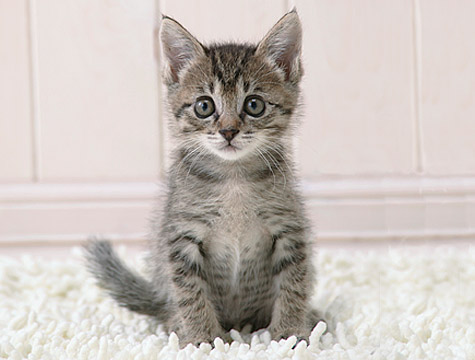
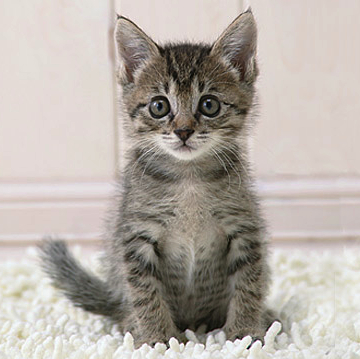
stuff

diff --git a/Classes/TransformViewController.m b/Classes/TransformViewController.m
@@ -16,9 +16,9 @@ CGPoint identity(CGPoint p) { return p; }
 
 - (void) awakeFromNib {
 	[super awakeFromNib];
-	shaderTransformer = [[ShaderTransformer alloc] initWithResolution:CGSizeMake(475, 360) 
+	shaderTransformer = [[ShaderTransformer alloc] initWithResolution:CGSizeMake(360, 360) 
 													 vertexShaderFile:[[NSBundle mainBundle] pathForResource:@"Shader" ofType:@"vsh"]
-												   fragmentShaderFile:[[NSBundle mainBundle] pathForResource:@"Shader" ofType:@"fsh"]];
+												   fragmentShaderFile:[[NSBundle mainBundle] pathForResource:@"Identity" ofType:@"fsh"]];
 }
 
 - (void)dealloc {
